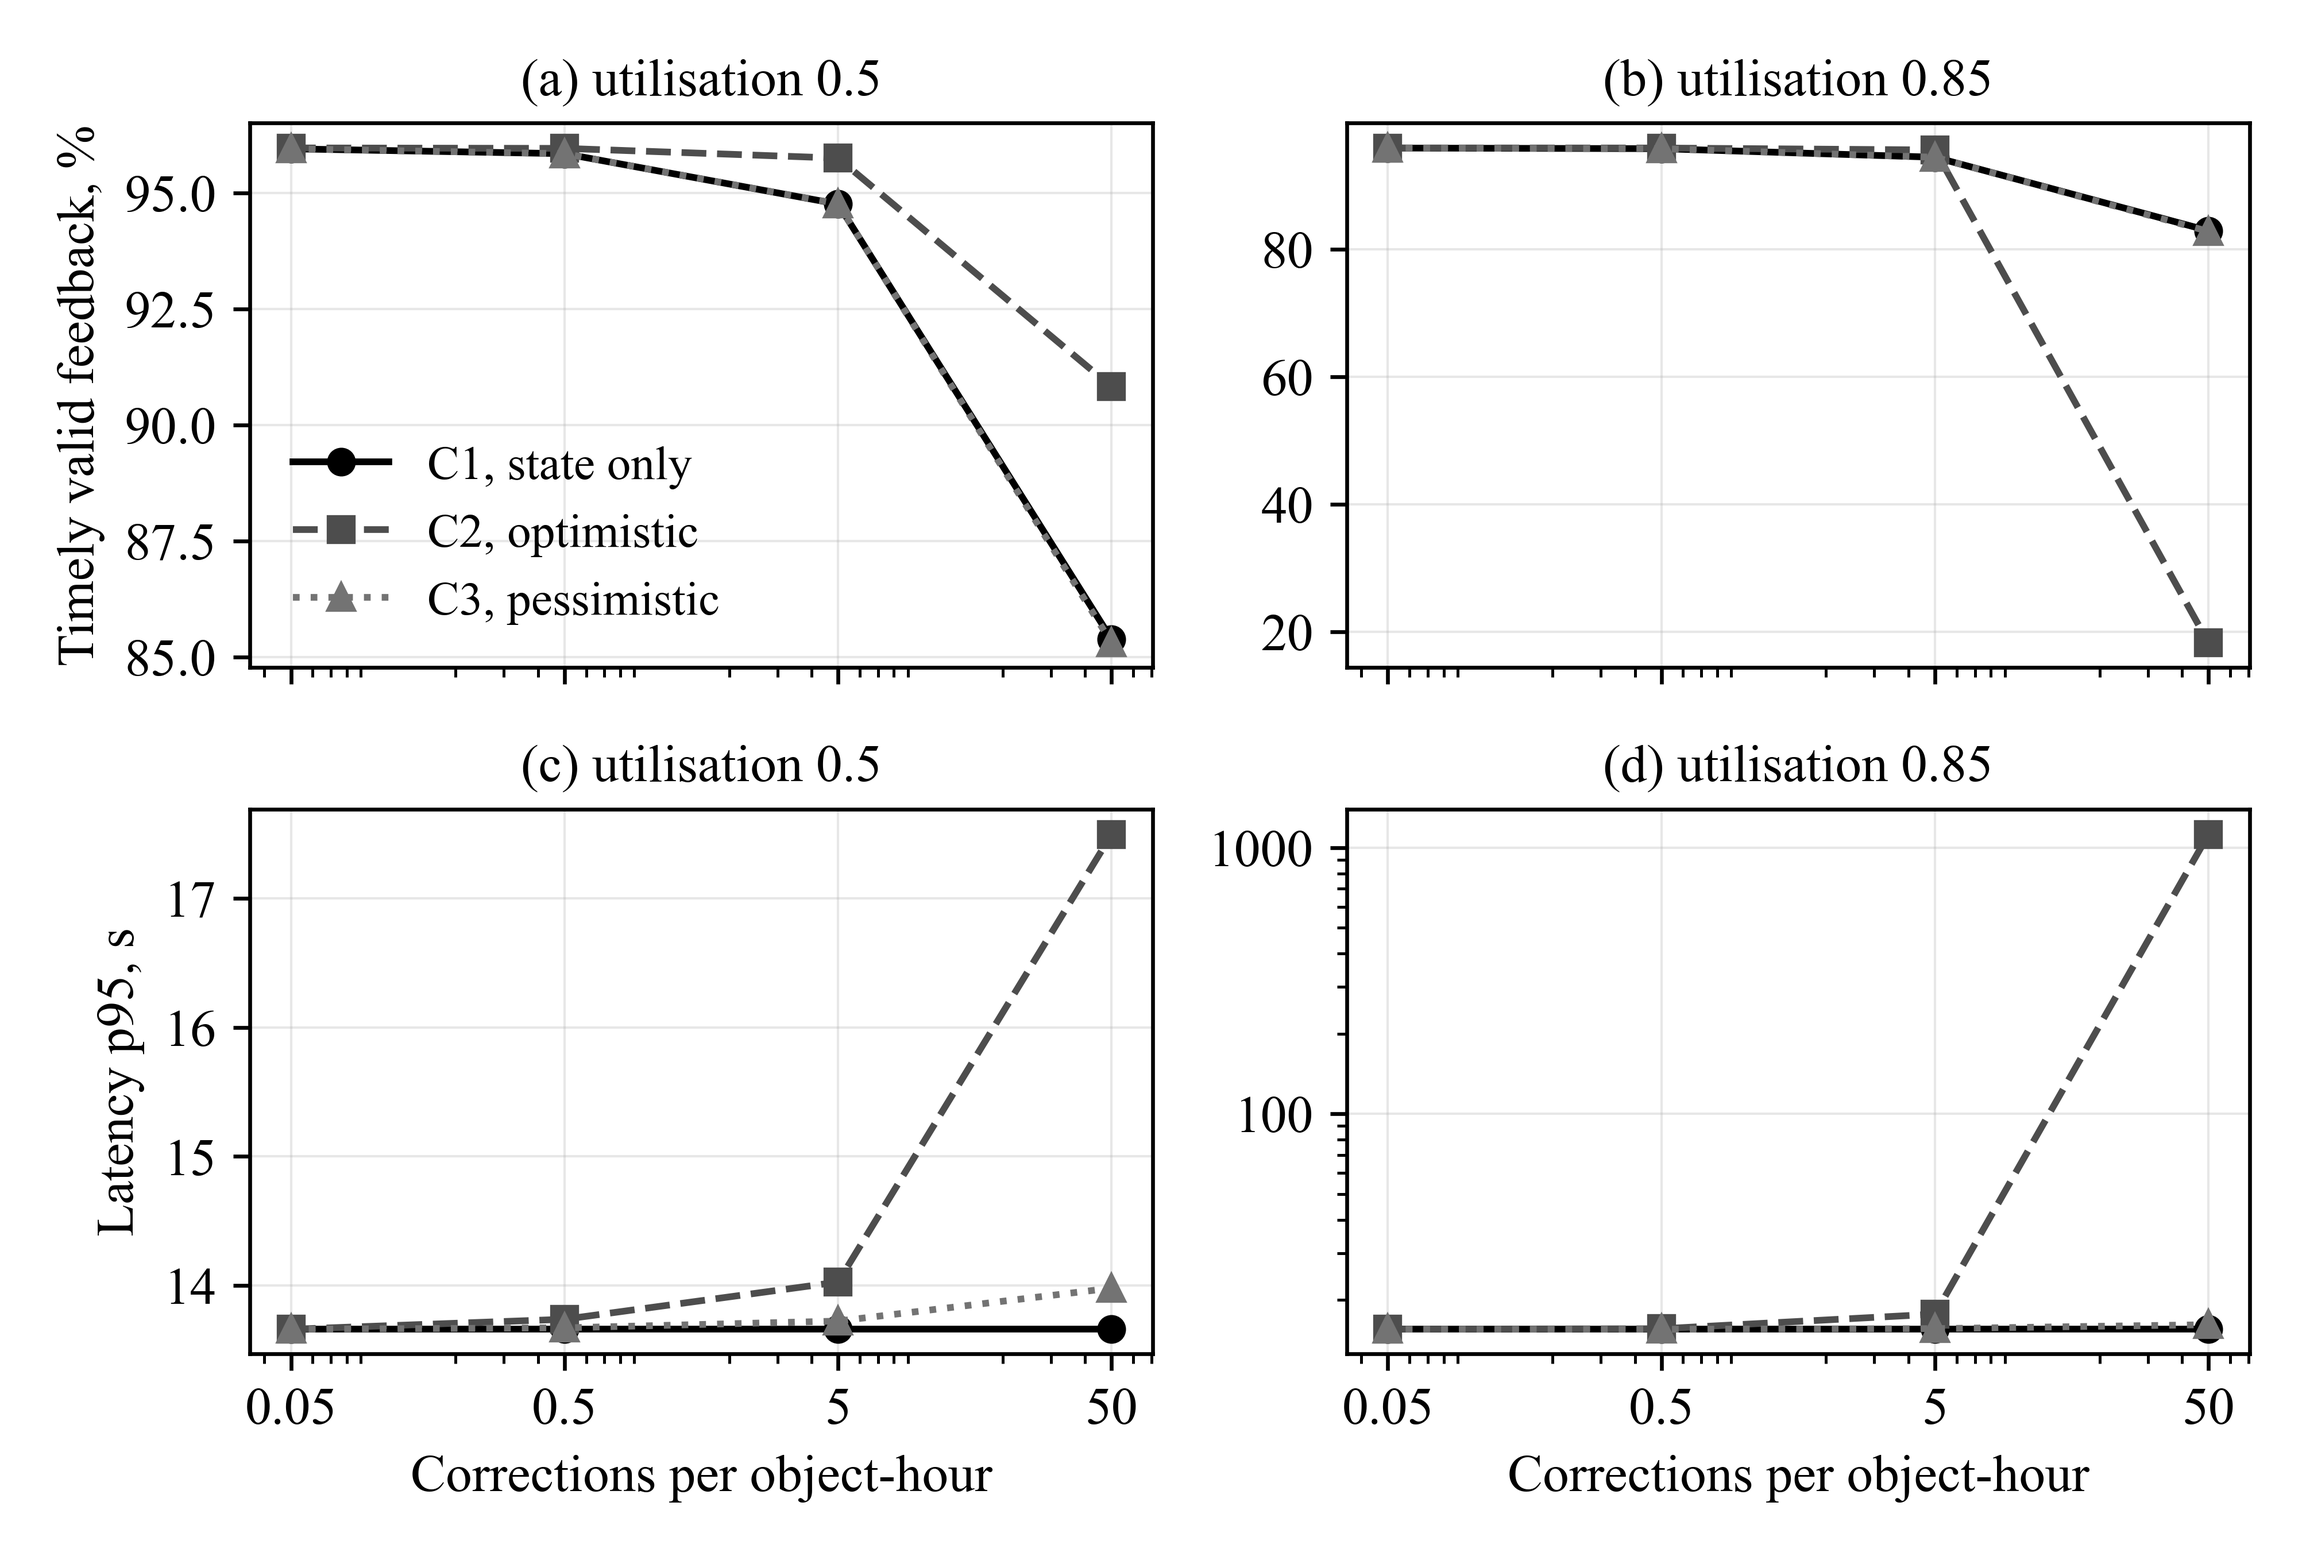
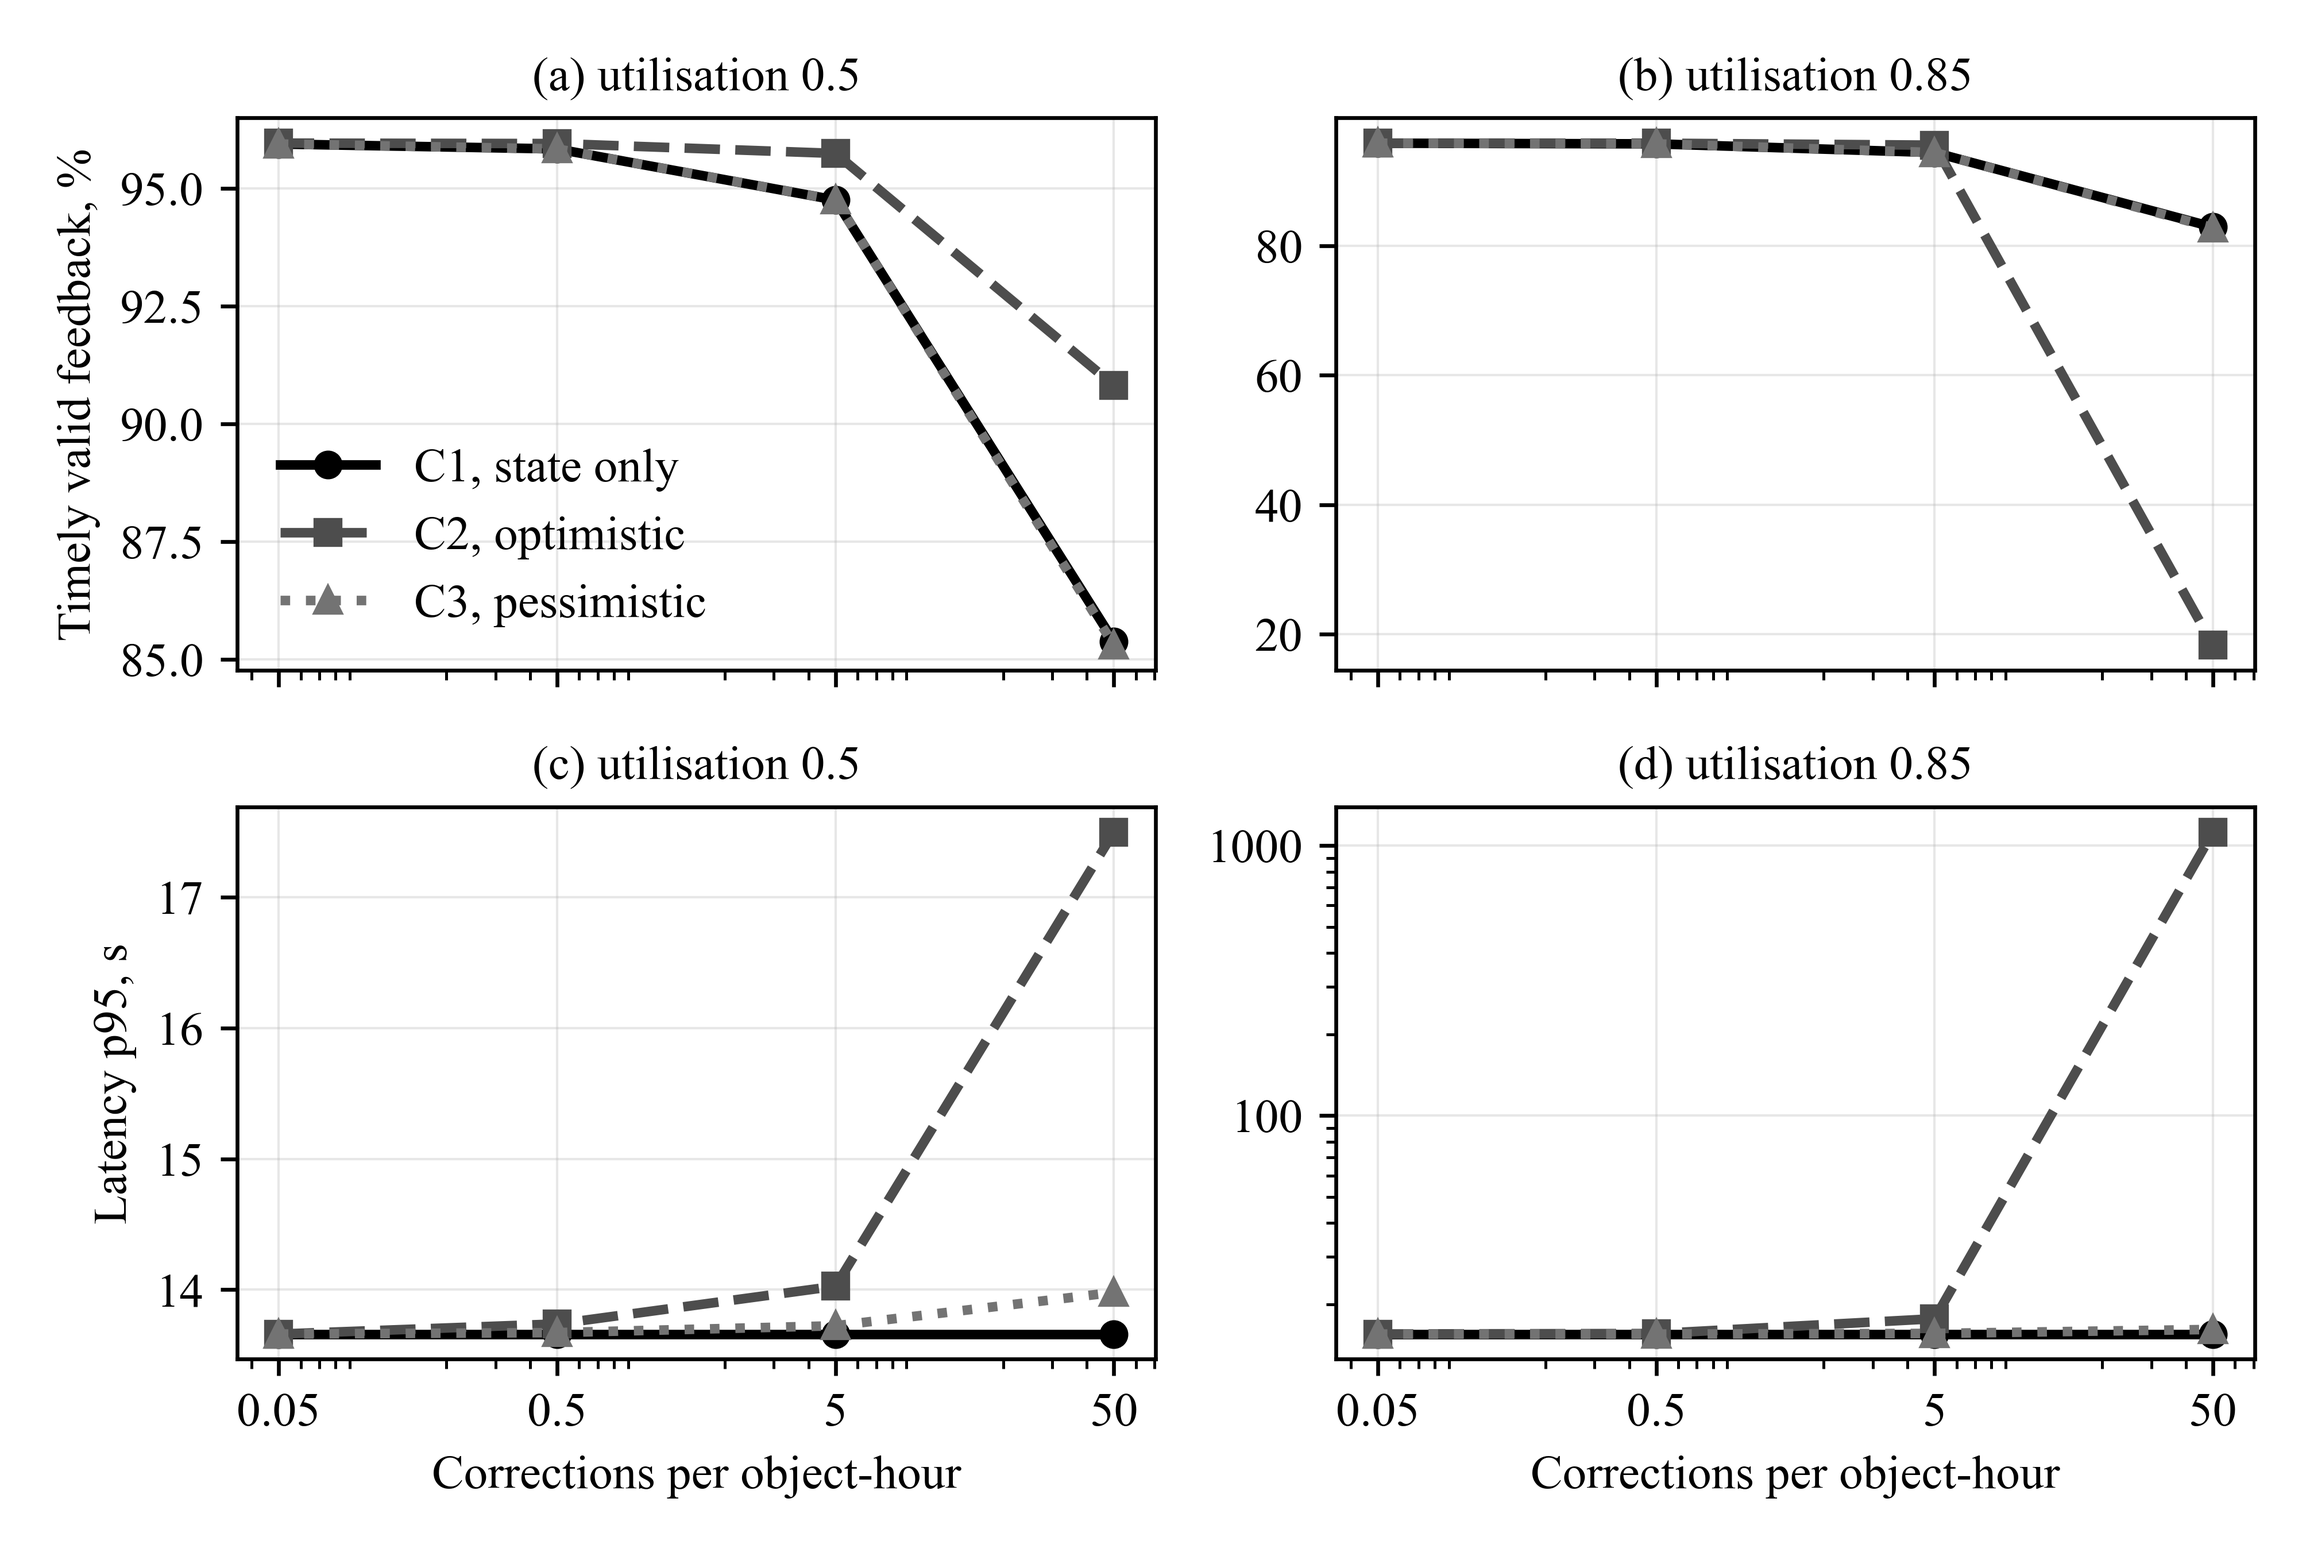
Draw figure lines at 2 pt and lettering at 10 pt as the journal requires

diff --git a/src/agentcc/analysis.py b/src/agentcc/analysis.py
@@ -117,7 +117,7 @@ def figure(cell_rows, path):
 
     styles = {"C1": ("o", "-", "0.0"), "C2": ("s", "--", "0.3"), "C3": ("^", ":", "0.45")}
     names = {"C1": "C1, state only", "C2": "C2, optimistic", "C3": "C3, pessimistic"}
-    plt.rcParams.update({"font.family": "Times New Roman", "font.size": 11})
+    plt.rcParams.update({"font.family": "Times New Roman", "font.size": 10})
     fig, axes = plt.subplots(2, 2, figsize=(17 / 2.54, 11.5 / 2.54), sharex=True)
     plain = ticker.FuncFormatter(lambda v, _: f"{v:g}")
     for j, ld in enumerate((0.5, 0.85)):
@@ -126,10 +126,10 @@ def figure(cell_rows, path):
                         key=lambda r: r["lambda"])
             x = [r["lambda"] for r in rs]
             axes[0, j].plot(x, [100 * r["tvf"][0] for r in rs], marker=mk, ls=ls, color=col, label=names[c], ms=5,
-                            lw=1.4)
-            axes[1, j].plot(x, [r["latency_p95"][0] for r in rs], marker=mk, ls=ls, color=col, ms=5, lw=1.4)
-        axes[0, j].set_title(f"({'ab'[j]}) utilisation {ld}", fontsize=11)
-        axes[1, j].set_title(f"({'cd'[j]}) utilisation {ld}", fontsize=11)
+                            lw=2)
+            axes[1, j].plot(x, [r["latency_p95"][0] for r in rs], marker=mk, ls=ls, color=col, ms=5, lw=2)
+        axes[0, j].set_title(f"({'ab'[j]}) utilisation {ld}", fontsize=10)
+        axes[1, j].set_title(f"({'cd'[j]}) utilisation {ld}", fontsize=10)
         axes[1, j].set_xlabel("Corrections per object-hour")
         if ld == 0.85:
             axes[1, j].set_yscale("log")
